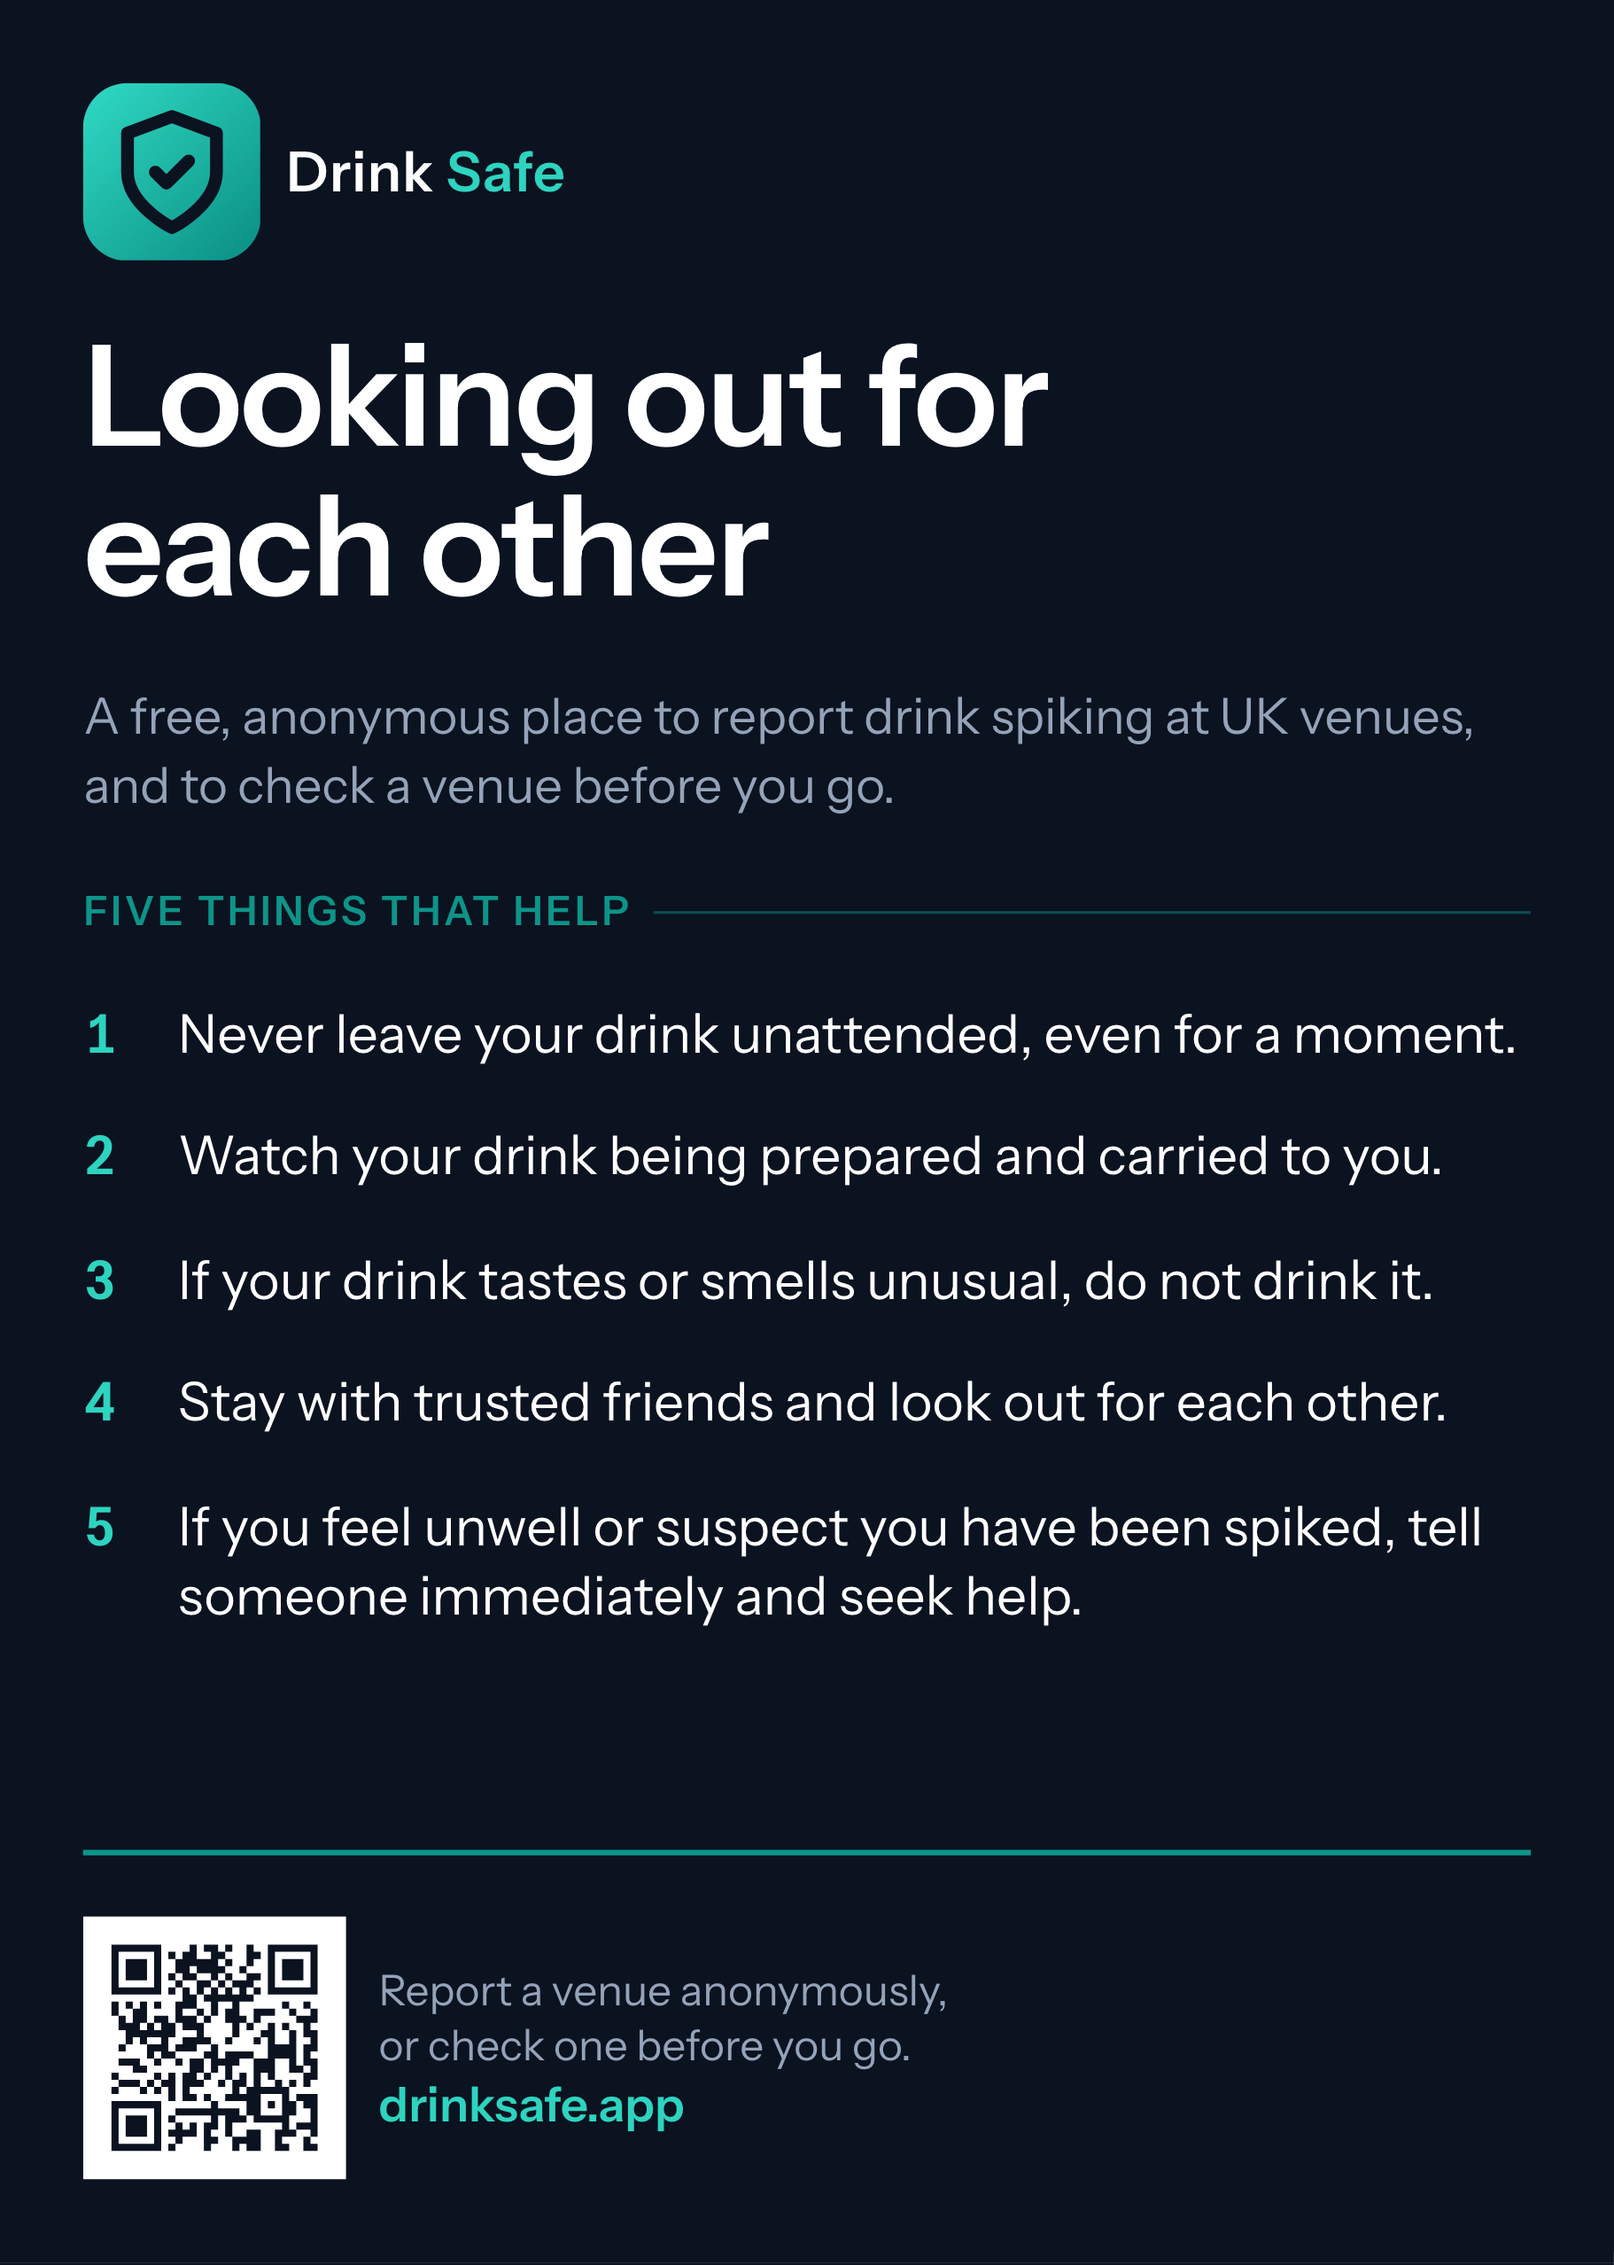
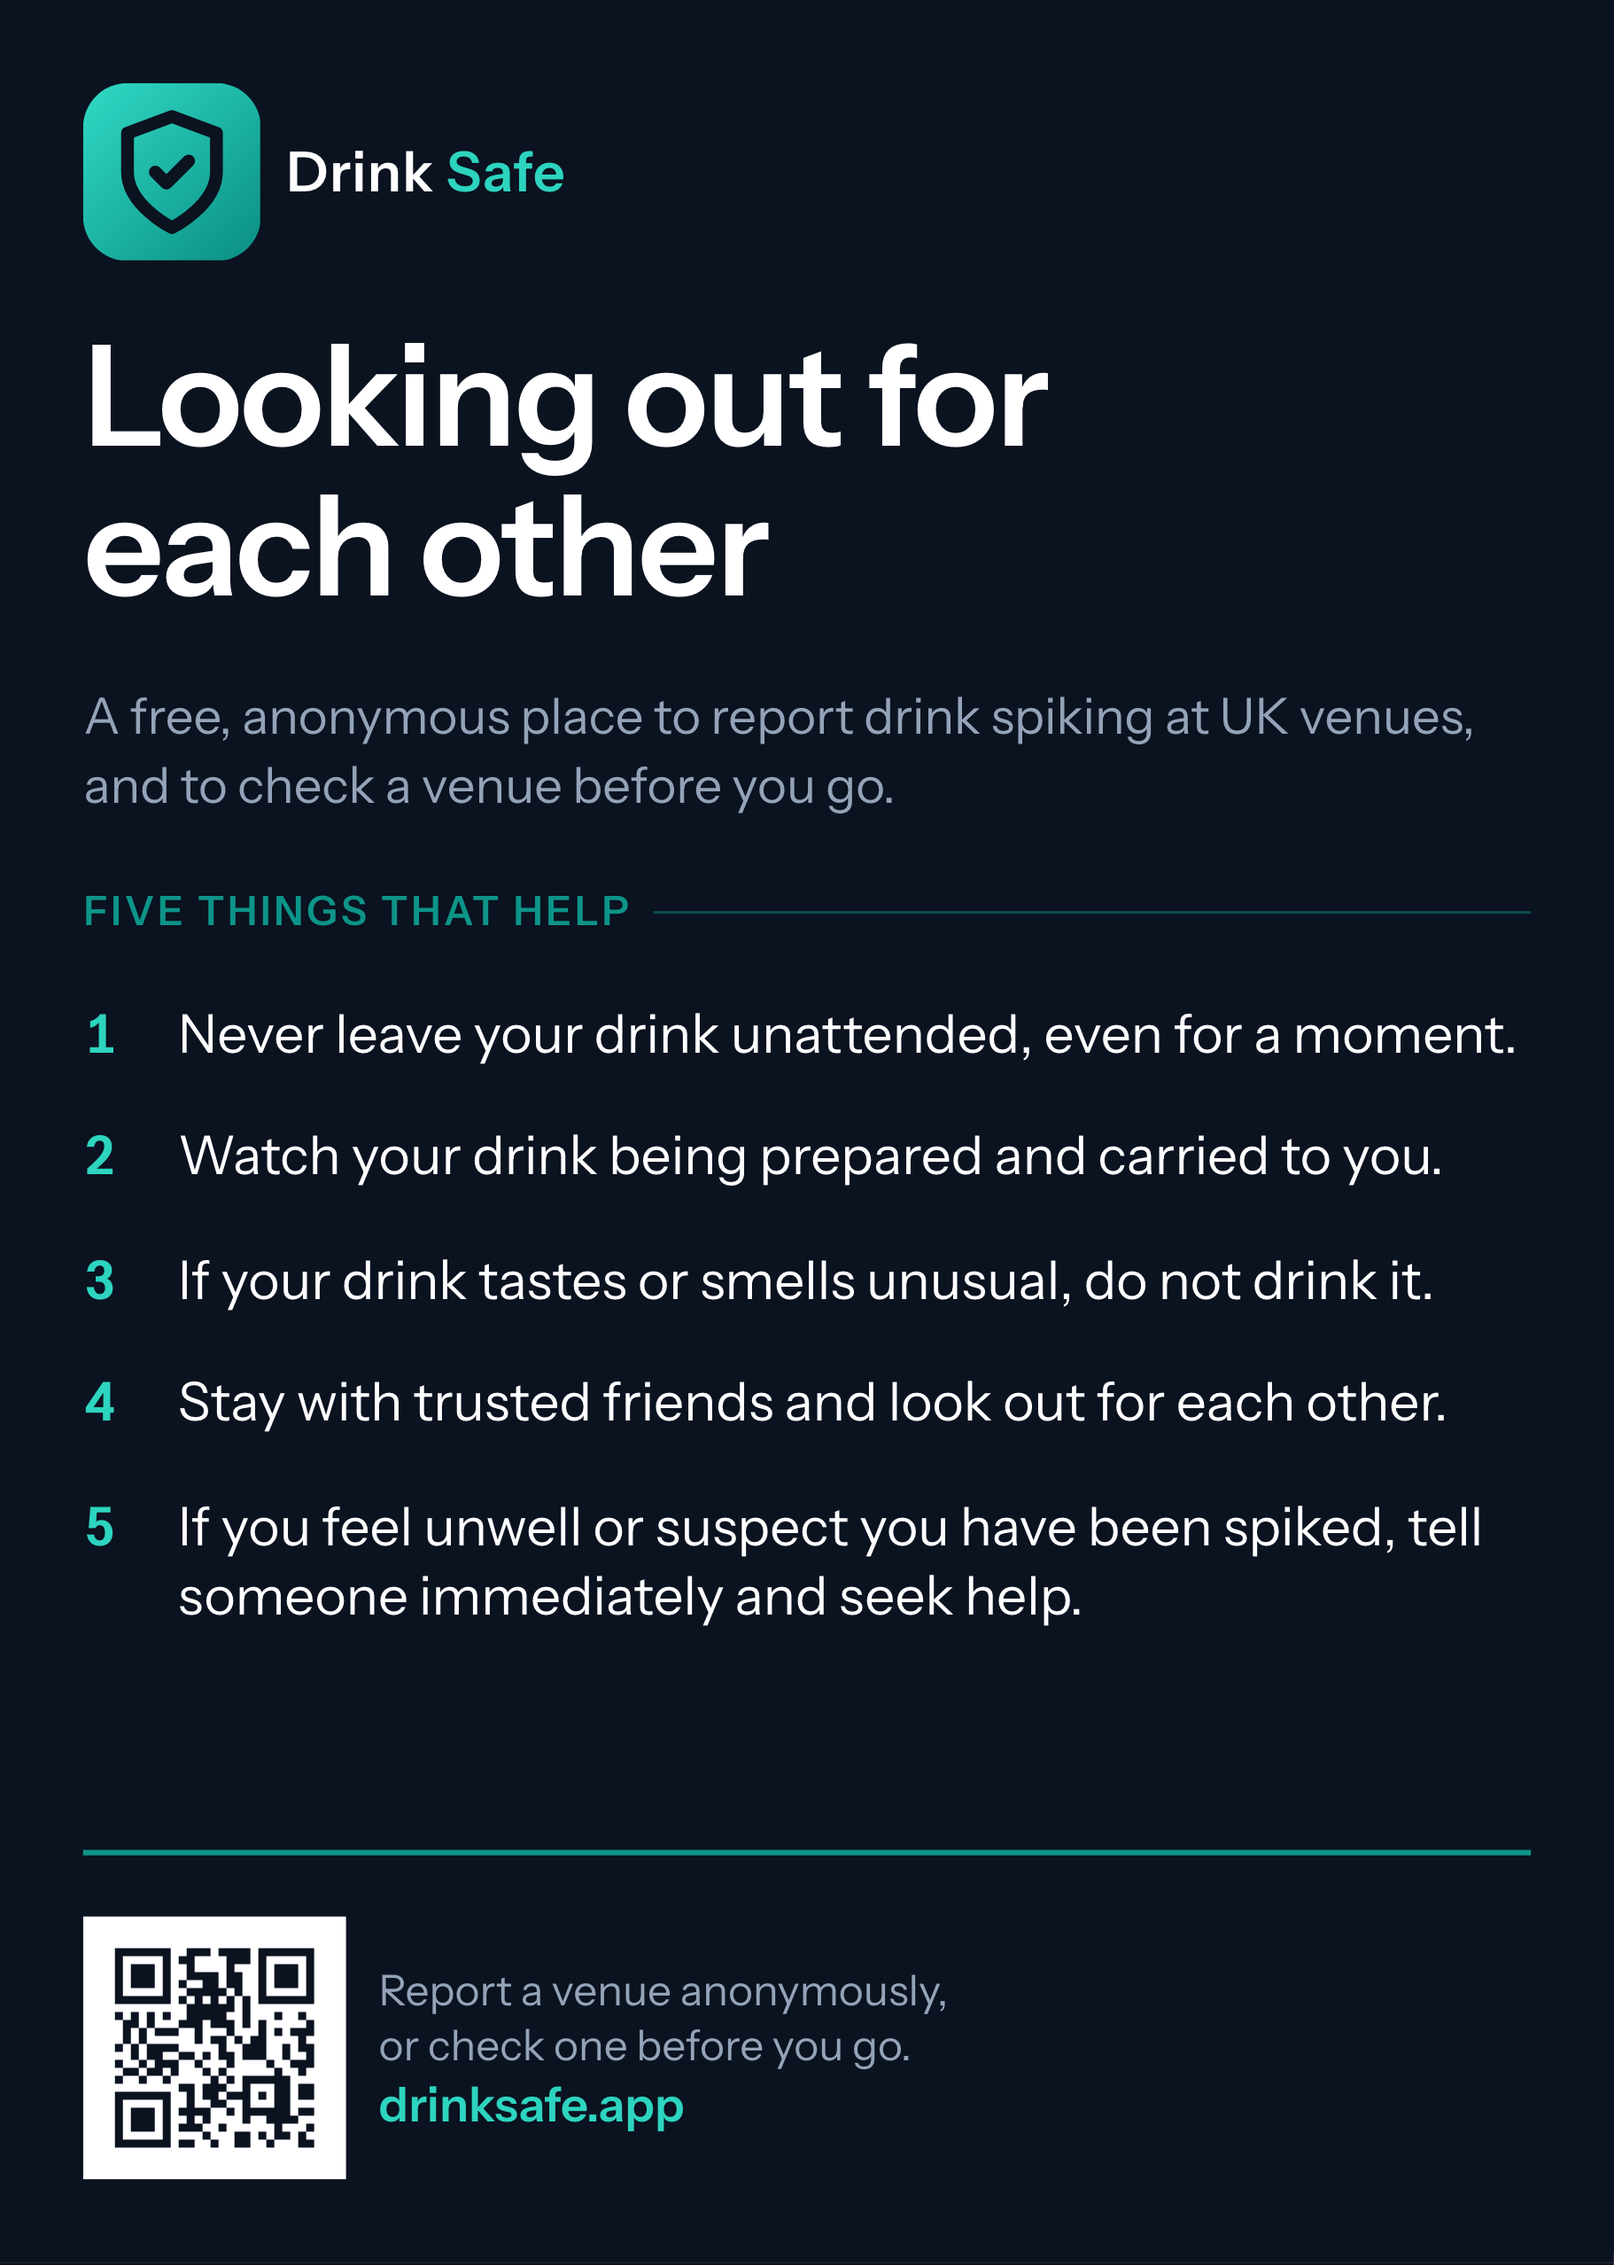
Point the flyer front QR at the home page
The front of the flyer says "Report a venue anonymously, or check one before
you go." but its QR went to the report form, so anyone who scanned it to check
a venue landed on the wrong page. The front now uses the home page QR
(`qr-home-34mm.svg`) at 25mm, which keeps each module at 758 micron. The back
keeps the report QR, as its copy is only about reporting.

The flyer PDF in public/downloads and the partner pack are rebuilt from the
new render.

Changed region(s): [[0.0615, 0.8345, 0.2151, 0.9581]]

diff --git a/print/artwork/flyer.html b/print/artwork/flyer.html
@@ -115,7 +115,7 @@
         <hr class="rule">
 
         <div class="qr-row">
-            <img class="qr qr--25" src="../qr/qr-report-25mm.svg" alt="">
+            <img class="qr qr--25" src="../qr/qr-home-34mm.svg" alt="">
             <div>
                 <p class="qr-copy">Report a venue anonymously,<br>or check one before you go.</p>
                 <p class="url">drinksafe.app</p>

diff --git a/docs/active/print-collateral/print-collateral-design.md b/docs/active/print-collateral/print-collateral-design.md
@@ -175,9 +175,10 @@ before you go.
          drinksafe.app
 ```
 
-QR target, both sides: `https://drinksafe.app/submit-report`
+QR target, front: `https://drinksafe.app` (`qr-home-34mm.svg` at 25mm), as its copy offers both
+reporting and checking a venue.
 
-QR target: `https://drinksafe.app/submit-report`
+QR target, back: `https://drinksafe.app/submit-report` (`qr-report-25mm.svg`).
 
 The five tips, the support numbers and the small print are taken word for word from the About
 page and the footer disclaimer, so the print and the site cannot drift apart. If the site's
@@ -323,7 +324,7 @@ Generated as vector at final size and committed to `print/qr/`.
 | File | Target | Symbol | Size | Module |
 |---|---|---|---|---|
 | `qr-report-22mm.svg` | `/submit-report` | 3-M | 22mm | 595 micron |
-| `qr-home-34mm.svg` | home | 2-M | 34mm | 1030 micron, placed at 30mm |
+| `qr-home-34mm.svg` | home | 2-M | 34mm | 1030 micron, placed at 30mm (909 micron) and at 25mm on the flyer front (758 micron) |
 | `qr-report-25mm.svg` | `/submit-report` | 3-M | 25mm | 676 micron |
 | `qr-report-106mm.svg` | `/submit-report` | 3-M | 106mm | 2865 micron, 4051 micron on the A3 poster |
 
